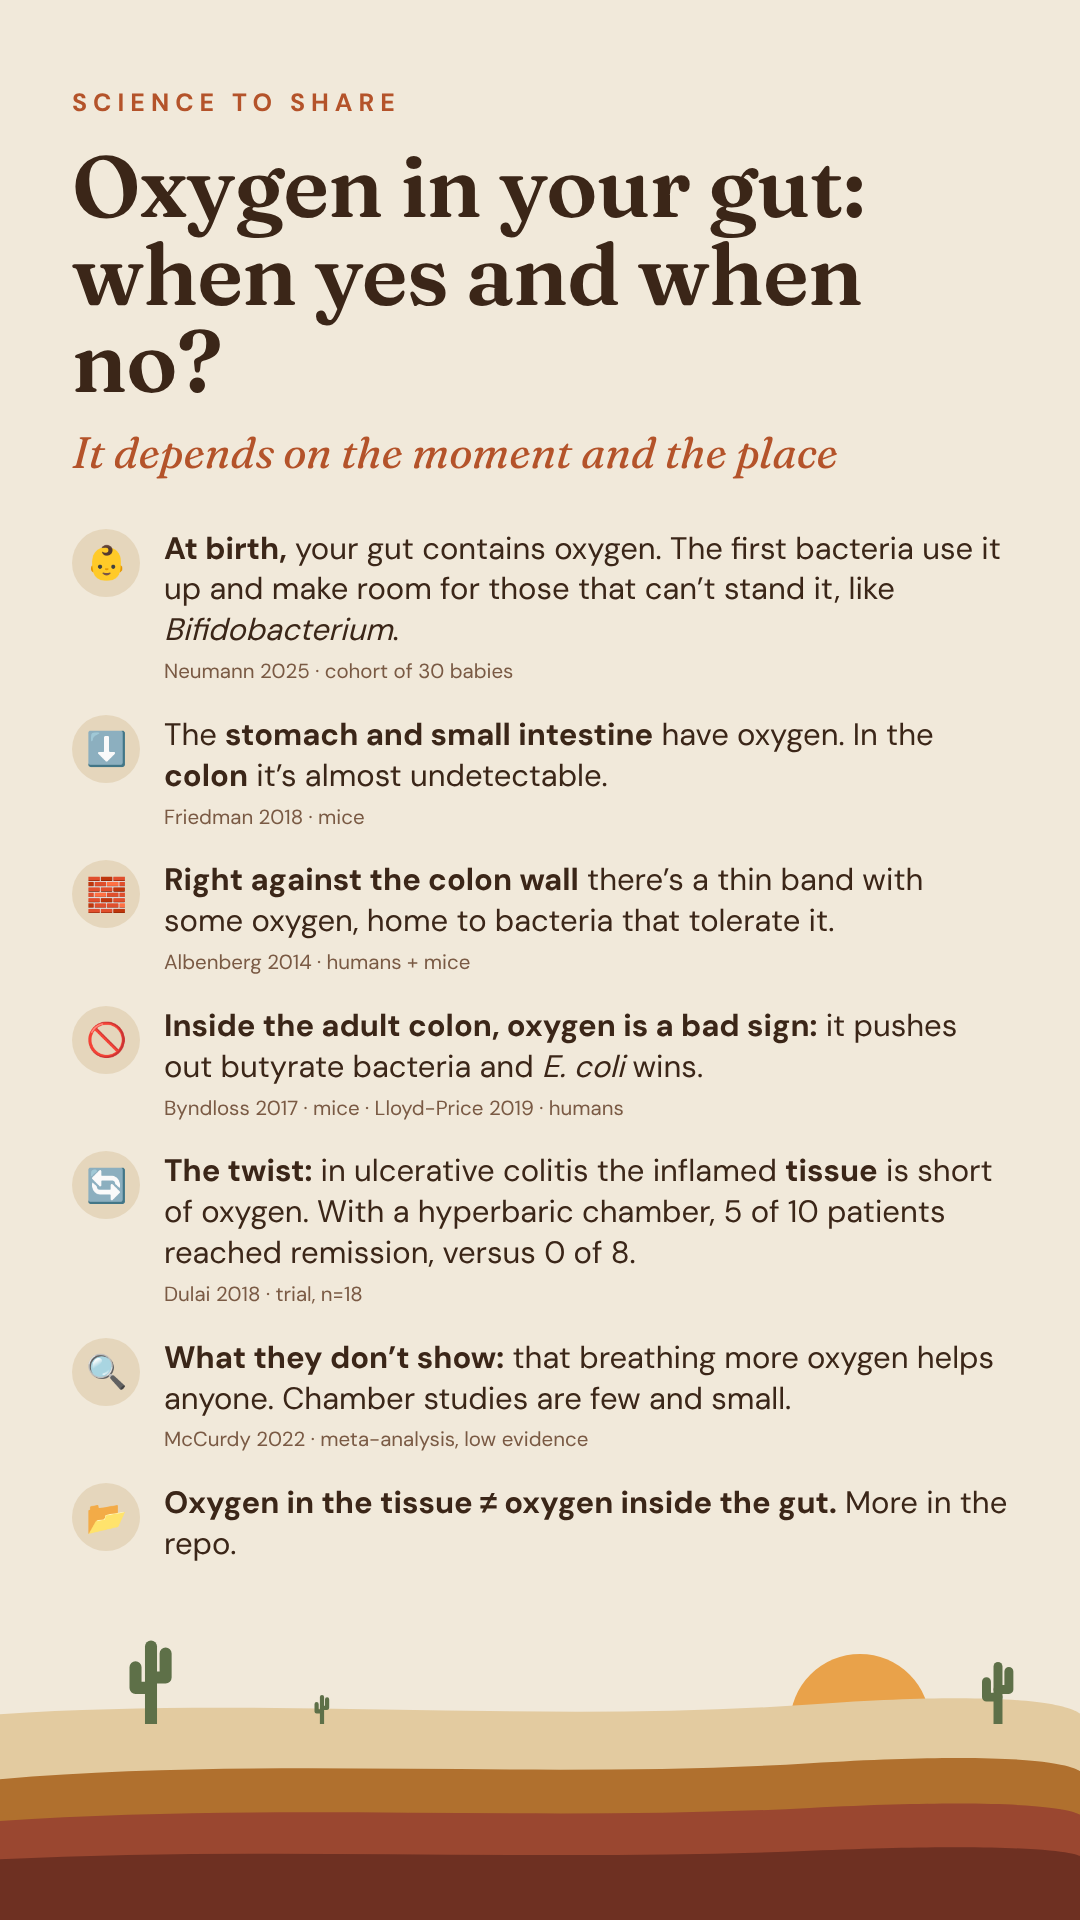
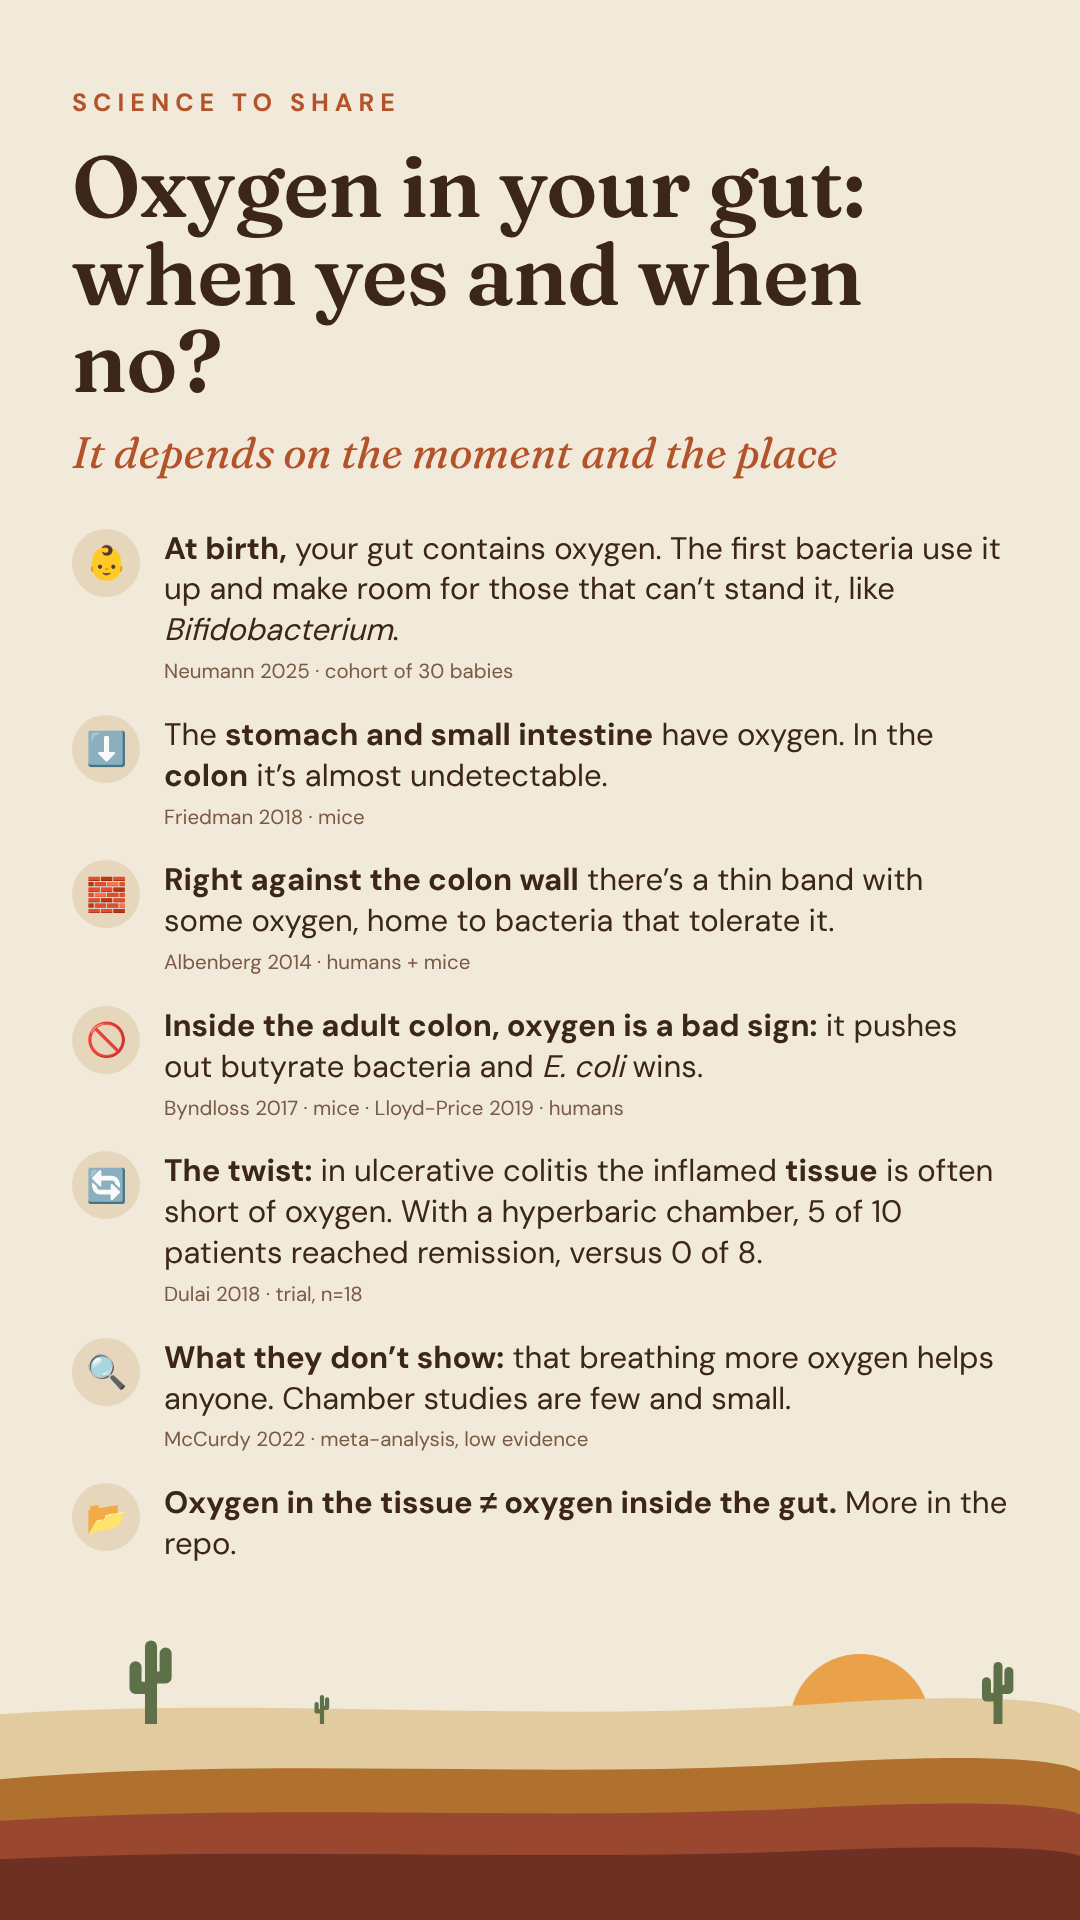
oxígeno: «suele estar» falto de oxígeno (evidencia sobre todo animal, Lun 2023)
Claude-Session: https://claude.ai/code/session_01WZ345H3rsWUmbyjoNJgkfT

Changed region(s): [[0.1528, 0.625, 0.8556, 0.6562], [0.8556, 0.5938, 0.9167, 0.625]]

diff --git a/tools/story_oxigeno.py b/tools/story_oxigeno.py
@@ -18,7 +18,7 @@ STORIES = {
              "Albenberg 2014 · humanos + ratón"),
             ("🚫", "**Dentro del colon adulto, el oxígeno es mala señal:** desplaza a las bacterias del butirato y gana *E. coli*.",
              "Byndloss 2017 · ratón · Lloyd-Price 2019 · humanos"),
-            ("🔄", "**El giro:** en la colitis ulcerosa el **tejido** inflamado está falto de oxígeno. Con cámara hiperbárica, 5 de 10 pacientes entraron en remisión, frente a 0 de 8.",
+            ("🔄", "**El giro:** en la colitis ulcerosa el **tejido** inflamado suele estar falto de oxígeno. Con cámara hiperbárica, 5 de 10 pacientes entraron en remisión, frente a 0 de 8.",
              "Dulai 2018 · ensayo, n=18"),
             ("🔍", "**Lo que no demuestran:** que respirar más oxígeno sirva a cualquiera. Los estudios con cámara son pocos y pequeños.",
              "McCurdy 2022 · metaanálisis, evidencia baja"),
@@ -38,7 +38,7 @@ STORIES = {
              "Albenberg 2014 · humans + mice"),
             ("🚫", "**Inside the adult colon, oxygen is a bad sign:** it pushes out butyrate bacteria and *E. coli* wins.",
              "Byndloss 2017 · mice · Lloyd-Price 2019 · humans"),
-            ("🔄", "**The twist:** in ulcerative colitis the inflamed **tissue** is short of oxygen. With a hyperbaric chamber, 5 of 10 patients reached remission, versus 0 of 8.",
+            ("🔄", "**The twist:** in ulcerative colitis the inflamed **tissue** is often short of oxygen. With a hyperbaric chamber, 5 of 10 patients reached remission, versus 0 of 8.",
              "Dulai 2018 · trial, n=18"),
             ("🔍", "**What they don’t show:** that breathing more oxygen helps anyone. Chamber studies are few and small.",
              "McCurdy 2022 · meta-analysis, low evidence"),
@@ -58,7 +58,7 @@ STORIES = {
              "Albenberg 2014 · humains + souris"),
             ("🚫", "**Dans le côlon adulte, l’oxygène est mauvais signe :** il chasse les bactéries du butyrate et *E. coli* l’emporte.",
              "Byndloss 2017 · souris · Lloyd-Price 2019 · humains"),
-            ("🔄", "**Le retournement :** dans la rectocolite hémorragique, le **tissu** enflammé manque d’oxygène. En caisson hyperbare, 5 patients sur 10 sont entrés en rémission, contre 0 sur 8.",
+            ("🔄", "**Le retournement :** dans la rectocolite hémorragique, le **tissu** enflammé manque souvent d’oxygène. En caisson hyperbare, 5 patients sur 10 sont entrés en rémission, contre 0 sur 8.",
              "Dulai 2018 · essai, n=18"),
             ("🔍", "**Ce que les études ne démontrent pas :** que respirer plus d’oxygène aide tout le monde. Les études en caisson sont rares et petites.",
              "McCurdy 2022 · méta-analyse, preuves faibles"),
